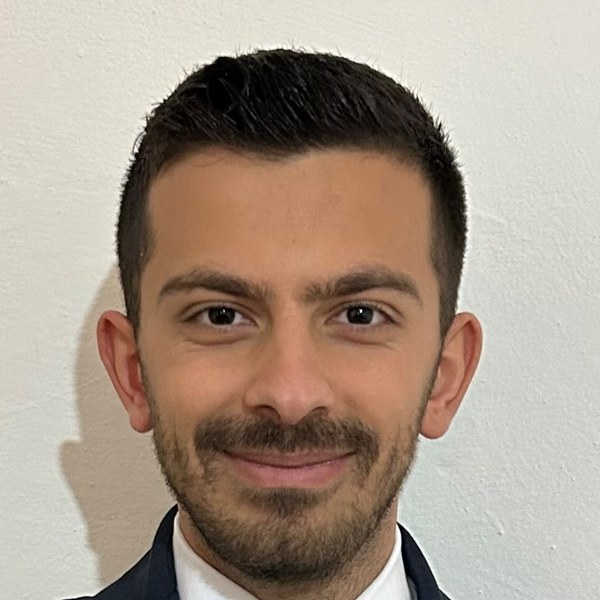
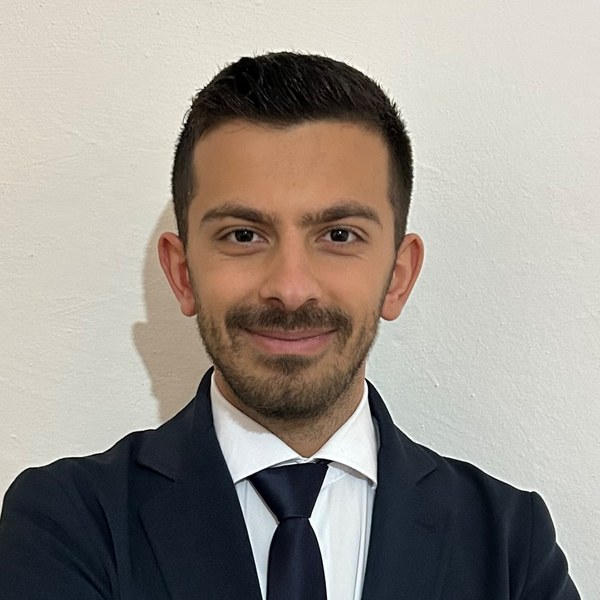
Restore wider photo crop, blue sidebar
Claude-Session: https://claude.ai/code/session_01TFGcavrYNJiBUuVPdoeBGN

diff --git a/src/styles/global.css b/src/styles/global.css
@@ -1,3 +1,8 @@
 .time-line-container>div:last-child .education__time>.education__line {
     display: none;
 }
+/* Sidebar colour: change --sidebar-bg to any colour you like */
+:root { --sidebar-bg: #1e3a5f; --sidebar-text: #f1f5f9; }
+.sidebar-blue { background-color: var(--sidebar-bg); color: var(--sidebar-text); }
+.sidebar-blue .menu li > a:hover { background-color: rgba(255, 255, 255, 0.12); color: var(--sidebar-text); }
+.sidebar-blue .menu li > a.sidebar-active { background-color: rgba(255, 255, 255, 0.2); }
